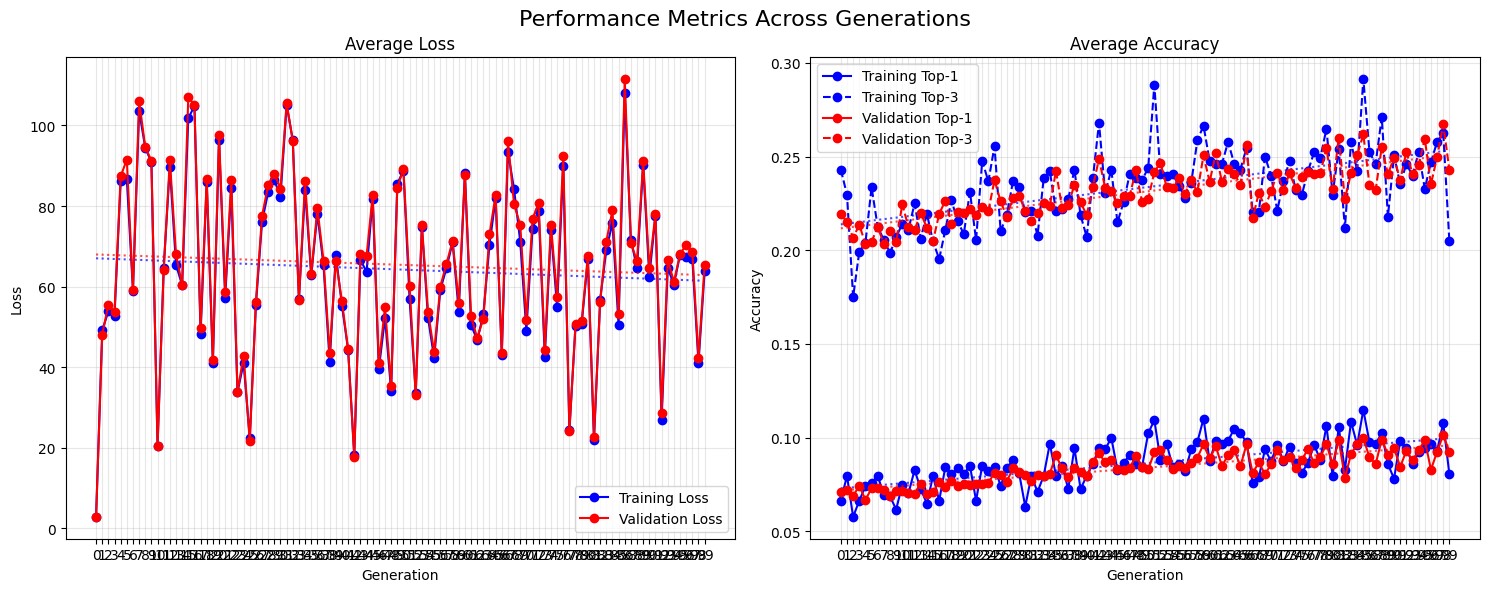
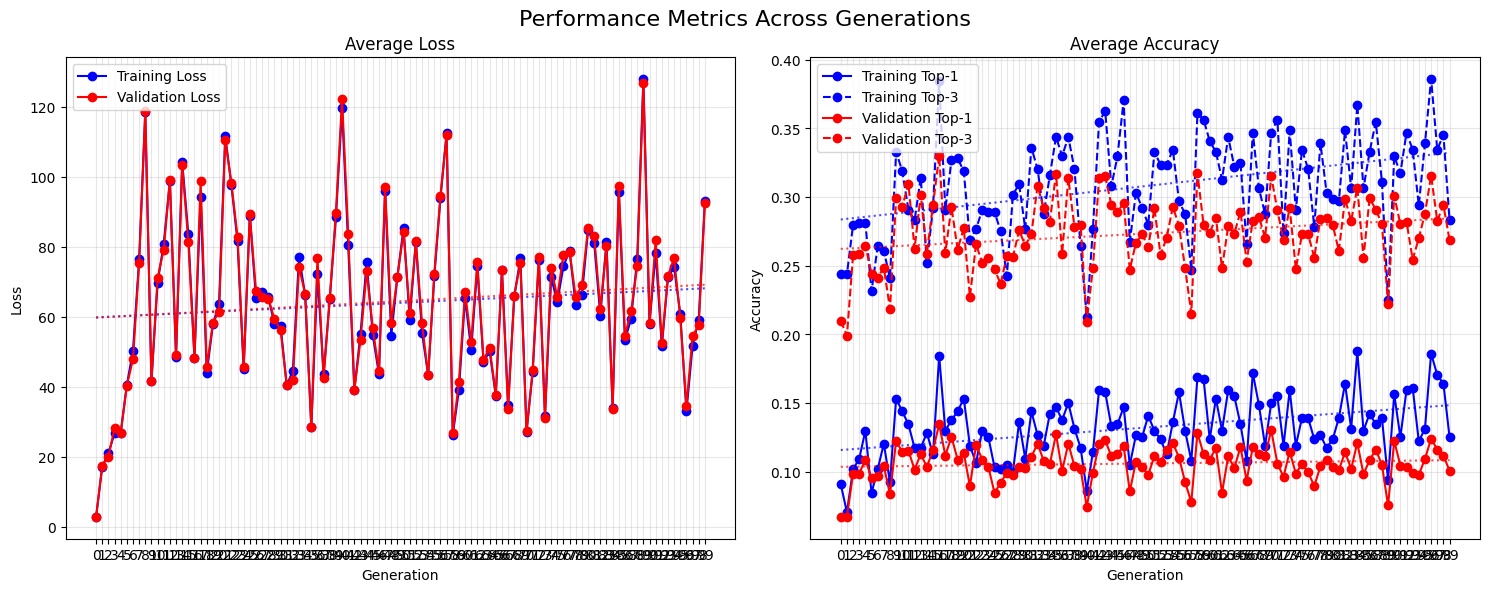
change of init pop neat

diff --git a/metrics/competitive_evaluator.py b/metrics/competitive_evaluator.py
@@ -122,15 +122,16 @@ class CompetitiveEvaluator:
 
                 # 6) Re‐combine with a single entropy weight
                 w = {
-                    'moves': 0.50,
-                    'acc': 0.50,
+                    'moves': 0.40,
+                    'acc': 0.40,
+                    'entropy': 0.20,
                 }
 
                 composite = (
                         w['moves'] * moves_score +
-                        w['acc'] * acc_score
+                        w['acc'] * acc_score +
                         # w['eff'] * eff_score
-                        # w['entropy'] * entropy_score
+                        w['entropy'] * entropy_score
                 )
 
                 genome.fitness = composite
@@ -281,63 +282,50 @@ class CompetitiveEvaluator:
 
     def plot_halls_wrapped(self,
                            hof_per_generation,
-                           hos_per_generation,
-                           board_size,
-                           max_per_row=10,
-                           max_total=20):
-        """
-        Two figures with wrapping and a hard cap on total boards shown:
-          - All HOF boards, up to `max_per_row` per row, with at most `max_total` boards total.
-          - All HOS boards likewise.
-        """
+                           hos_per_generation):
 
-        def flatten_and_label(hall_list, hall_name):
+        """
+        Single figure showing up to `max_each` HOF boards (top) and HOS boards (bottom).
+        Labels show only generation (e.g., "Gen 3").
+        """
+        max_each = 10  # Max number of boards to show per row
+        def flatten_and_label(hall_list):
             boards, labels = [], []
             for g, gen_hall in enumerate(hall_list, start=1):
-                for i, chrom in enumerate(gen_hall, start=1):
+                for chrom in gen_hall:
                     boards.append(self.create_board_from_chromosome(chrom))
-                    labels.append(f"G{g}-{hall_name}{i}")
-            return boards, labels
+                    labels.append(f"Gen {g}")
+            return boards[:max_each], labels[:max_each]
 
-        def plot_wrapped(boards, labels, title):
-            # --- subsample if over max_total ---
-            n = len(boards)
-            if n > max_total:
-                step = math.ceil(n / max_total)
-                boards = boards[::step]
-                labels = labels[::step]
-                n = len(boards)
+        hof_boards, hof_labels = flatten_and_label(hof_per_generation)
+        hos_boards, hos_labels = flatten_and_label(hos_per_generation)
 
-            if n == 0:
-                print(f"No boards to show for {title}")
-                return
+        total = len(hof_boards) + len(hos_boards)
+        cols = min(max_each, total)
+        rows = 2  # One row for HOF, one for HOS
 
-            rows = math.ceil(n / max_per_row)
-            cols = max_per_row
-            fig, axes = plt.subplots(rows, cols,
-                                     figsize=(2 * cols, 2 * rows),
-                                     squeeze=False)
+        fig, axes = plt.subplots(rows, cols, figsize=(2 * cols, 4), squeeze=False)
 
-            for idx, (bd, lbl) in enumerate(zip(boards, labels)):
-                r, c = divmod(idx, max_per_row)
-                ax = axes[r][c]
-                ax.imshow(bd, cmap="viridis", vmin=0, vmax=1)
-                ax.set_title(lbl, fontsize=8)
-                ax.axis("off")
+        # Plot HOF on top row
+        for i, (bd, lbl) in enumerate(zip(hof_boards, hof_labels)):
+            ax = axes[0][i]
+            ax.imshow(bd, cmap="viridis", vmin=0, vmax=1)
+            ax.set_title(lbl, fontsize=8)
+            ax.axis("off")
 
-            # hide any leftover subplots
-            for idx in range(n, rows * cols):
-                r, c = divmod(idx, max_per_row)
+        # Plot HOS on bottom row
+        for i, (bd, lbl) in enumerate(zip(hos_boards, hos_labels)):
+            ax = axes[1][i]
+            ax.imshow(bd, cmap="viridis", vmin=0, vmax=1)
+            ax.set_title(lbl, fontsize=8)
+            ax.axis("off")
+
+        # Hide unused subplots
+        for r in range(rows):
+            for c in range(len(hof_boards if r == 0 else hos_boards), cols):
                 axes[r][c].axis("off")
 
-            plt.suptitle(title, fontsize=14)
-            plt.tight_layout(rect=[0, 0, 1, 0.93])
-            plt.show()
+        fig.suptitle("HOF (Top) vs HOS (Bottom)", fontsize=14)
+        plt.tight_layout(rect=[0, 0, 1, 0.93])
+        plt.show()
 
-        # Hall of Fame
-        hof_boards, hof_labels = flatten_and_label(hof_per_generation, "HOF#")
-        plot_wrapped(hof_boards, hof_labels, "All Generations: Hall of Fame")
-
-        # Hall of Shame
-        hos_boards, hos_labels = flatten_and_label(hos_per_generation, "HOS#")
-        plot_wrapped(hos_boards, hos_labels, "All Generations: Hall of Shame")

diff --git a/neat_system/cnn_genome.py b/neat_system/cnn_genome.py
@@ -1,4 +1,5 @@
 import copy
+import json
 from random import choice, random, randint
 from neat.config import ConfigParameter, write_pretty_params
 
@@ -153,16 +154,48 @@ class CNNGenome(object):
 
     def configure_new(self, config):
         """
-        Configure a new genome with a random architecture and initialize weights.
-
-        :param config: CNNGenomeConfig instance.
+        If mutate_architecture is False, load exactly the Conv2d/Linear layers
+        from JSON (skip activation, Flatten, Dropout); otherwise build at random.
         """
         self.layer_config = []
+
+        if not config.mutate_architecture:
+            with open('ai/config_simple.json') as f:
+                spec = json.load(f)
+
+            curr_size = config.input_size
+            in_ch    = config.input_channels
+
+            for L in spec.get('layers', []):
+                t = L.get('type')
+                if t == 'Conv2d':
+                    gene = CNNConvGene.from_spec(config, L, in_ch, curr_size)
+                    # update spatial size & channel count
+                    curr_size = ((curr_size + 2*L['padding'] - L['kernel_size'])
+                                 // L['stride']) + 1
+                    in_ch = L['out_channels']
+
+                elif t == 'Linear':
+                    gene = CNNFCGene.from_spec(config, L, curr_size)
+                    # for next FC, input_size = this out_features
+                    curr_size = L['out_features']
+
+                else:
+                    # skip activation / Flatten / Dropout / anything else
+                    continue
+
+                self.layer_config.append(gene)
+
+            self.enforce_valid_ordering()
+            self._adjust_layer_sizes(config)
+            return
+
+        # Random architecture branch (unchanged)
         num_conv_layers = randint(1, config.max_num_conv_layer)
         num_pool_layers = randint(0, config.max_num_pool_layer)
-        num_fc_layers = randint(1, config.max_num_fc_layer)
-        in_channels = config.input_channels
-        current_size = config.input_size
+        num_fc_layers   = randint(1, config.max_num_fc_layer)
+        in_channels     = config.input_channels
+        current_size    = config.input_size
 
         # Create convolutional layers.
         for i in range(num_conv_layers):
@@ -183,12 +216,10 @@ class CNNGenome(object):
         # Create fully connected layers.
         flattened_size = max(1, current_size ** 2 * in_channels)
         previous_fc_size = flattened_size
-        fc_genes = []
         for i in range(num_fc_layers):
             fc_gene = CNNFCGene.create(config, input_size=previous_fc_size)
             fc_gene.initialize_weights(config)
             self.layer_config.append(fc_gene)
-            fc_genes.append(fc_gene)
             previous_fc_size = fc_gene.fc_layer_size
 
         self.enforce_valid_ordering()

diff --git a/metrics/evaluator.py b/metrics/evaluator.py
@@ -1110,31 +1110,40 @@ class PlacementEvaluator(BaseEvaluator):
             boards = [self.boards_over_generations[g] for g in generations]
 
             # Only show a subset if too many
-            if len(boards) > 20:
-                step = len(boards) // 20
+            max_shown = 20
+            if len(boards) > max_shown:
+                step = len(boards) // max_shown
                 boards = boards[::step]
                 generations = generations[::step]
 
             num_boards = len(boards)
             cols = 5
-            rows = (num_boards + cols - 1) // cols  # ceil
+            rows = (num_boards + cols - 1) // cols  # ceil division
 
-            fig4, axs = plt.subplots(rows, cols, figsize=(15, 3 * rows))
-            axs = axs.flatten()
+            fig4, ax4 = plt.subplots(rows, cols, figsize=(15, 3 * rows))
+            ax4 = ax4.flatten()
+
+            im = None  # To keep track of the last image for colorbar
 
             for idx, (board, gen) in enumerate(zip(boards, generations)):
-                im = axs[idx].imshow(board, cmap="viridis", vmin=0, vmax=1)
-                axs[idx].set_title(f"Gen {gen}")
-                axs[idx].set_xticks([])
-                axs[idx].set_yticks([])
+                im = ax4[idx].imshow(board, cmap="viridis", vmin=0, vmax=1)
+                ax4[idx].set_title(f"Gen {gen}", pad=8)
+                ax4[idx].set_xticks([])
+                ax4[idx].set_yticks([])
+                ax4[idx].axis("off")
 
-            # Hide empty subplots
-            for j in range(idx + 1, len(axs)):
-                axs[j].axis("off")
+            # Hide any unused subplots
+            for j in range(idx + 1, len(ax4)):
+                ax4[j].axis("off")
 
-            fig4.suptitle("Ship Placement Frequency Over Generations")
-            plt.tight_layout()
+            # Add a single colorbar to the right of the figure
+            cbar_ax = fig4.add_axes([0.92, 0.15, 0.02, 0.7])  # [left, bottom, width, height]
+            fig4.colorbar(im, cax=cbar_ax, label='Occupancy Frequency')
+
+            fig4.suptitle("Ship Placement Frequency Over Generations", fontsize=14, y=1.02)
+            plt.tight_layout(rect=[0, 0, 0.9, 0.96])  # Leave space on the right for colorbar
             plt.show()
+
 
     def plot_metrics_from_agg(self, stats, experiment: str):
         """

diff --git a/neat_system/cnn_layers.py b/neat_system/cnn_layers.py
@@ -72,6 +72,31 @@ class CNNConvGene(BaseGene):
         gene.enabled = True
         return gene
 
+
+    @classmethod
+    def from_spec(cls, config, spec, in_channels, input_size):
+        # build the same signature you’d get in `create()`
+        signature = (
+            spec['kernel_size'],
+            spec['stride'],
+            spec['padding'],
+            spec['out_channels'],
+            config.activation_function,
+        )
+        key = get_innovation_number("CNNConvGene", signature)
+        gene = cls(key)
+        gene.in_channels = in_channels
+        gene.input_size = input_size
+        gene.kernel_size = spec['kernel_size']
+        gene.stride      = spec['stride']
+        gene.padding     = spec['padding']
+        gene.out_channels= spec['out_channels']
+        gene.activation  = config.activation_function
+        gene.enabled     = True
+        gene.initialize_weights(config)
+        return gene
+
+
     def initialize_weights(self, config):
         k = int(self.kernel_size)
         in_c = int(self.in_channels)
@@ -253,6 +278,20 @@ class CNNFCGene(BaseGene):
         gene.activation = config.activation_function
         gene.input_size = input_size
         gene.enabled = True
+        return gene
+
+    @classmethod
+    def from_spec(cls, config, spec, input_size):
+        signature = (spec['out_features'], config.activation_function)
+        key = get_innovation_number("CNNFCGene", signature)
+        gene = cls(key)
+        gene.fc_layer_size = spec['out_features']
+        gene.activation    = config.activation_function
+        gene.input_size    = spec['in_features']
+        gene.dynamic       = spec.get('dynamic', True)
+        gene.last          = spec.get('last', False)
+        gene.enabled       = True
+        gene.initialize_weights(config)
         return gene
 
     def initialize_weights(self, config):

diff --git a/outer_loop.py b/outer_loop.py
@@ -449,7 +449,7 @@ class OuterLoopManager:
                 self.plot_search_agent_metrics(search_agent_metrics)
             else:
                 print("No metrics available to plot for search agents")
-        #self._generate_visualizations(timings)
+        self._generate_visualizations(timings)
 
     def _generate_visualizations(self, timings):
         """Generate all visualizations at the end of training."""
@@ -471,7 +471,6 @@ class OuterLoopManager:
             self.competitive_evaluator.plot_halls_wrapped(
                 hof_per_generation=self.placement_ga.hof_per_generation,
                 hos_per_generation=self.placement_ga.hos_per_generation,
-                board_size=self.placement_ga.board_size
             )
 
         self.competitive_evaluator.plot()

diff --git a/game_logic/game_manager.py b/game_logic/game_manager.py
@@ -107,7 +107,7 @@ class GameManager:
             else:
                 move = result
                 # uniform fallback
-                prob_np = np.ones(self.board_size**2) / (self.board_size**2)
+                prob_np = np.ones(self.size**2) / (self.size**2)
 
             # mask out illegal moves
             flat_board = np.array(current_state.board[0]).flatten()
